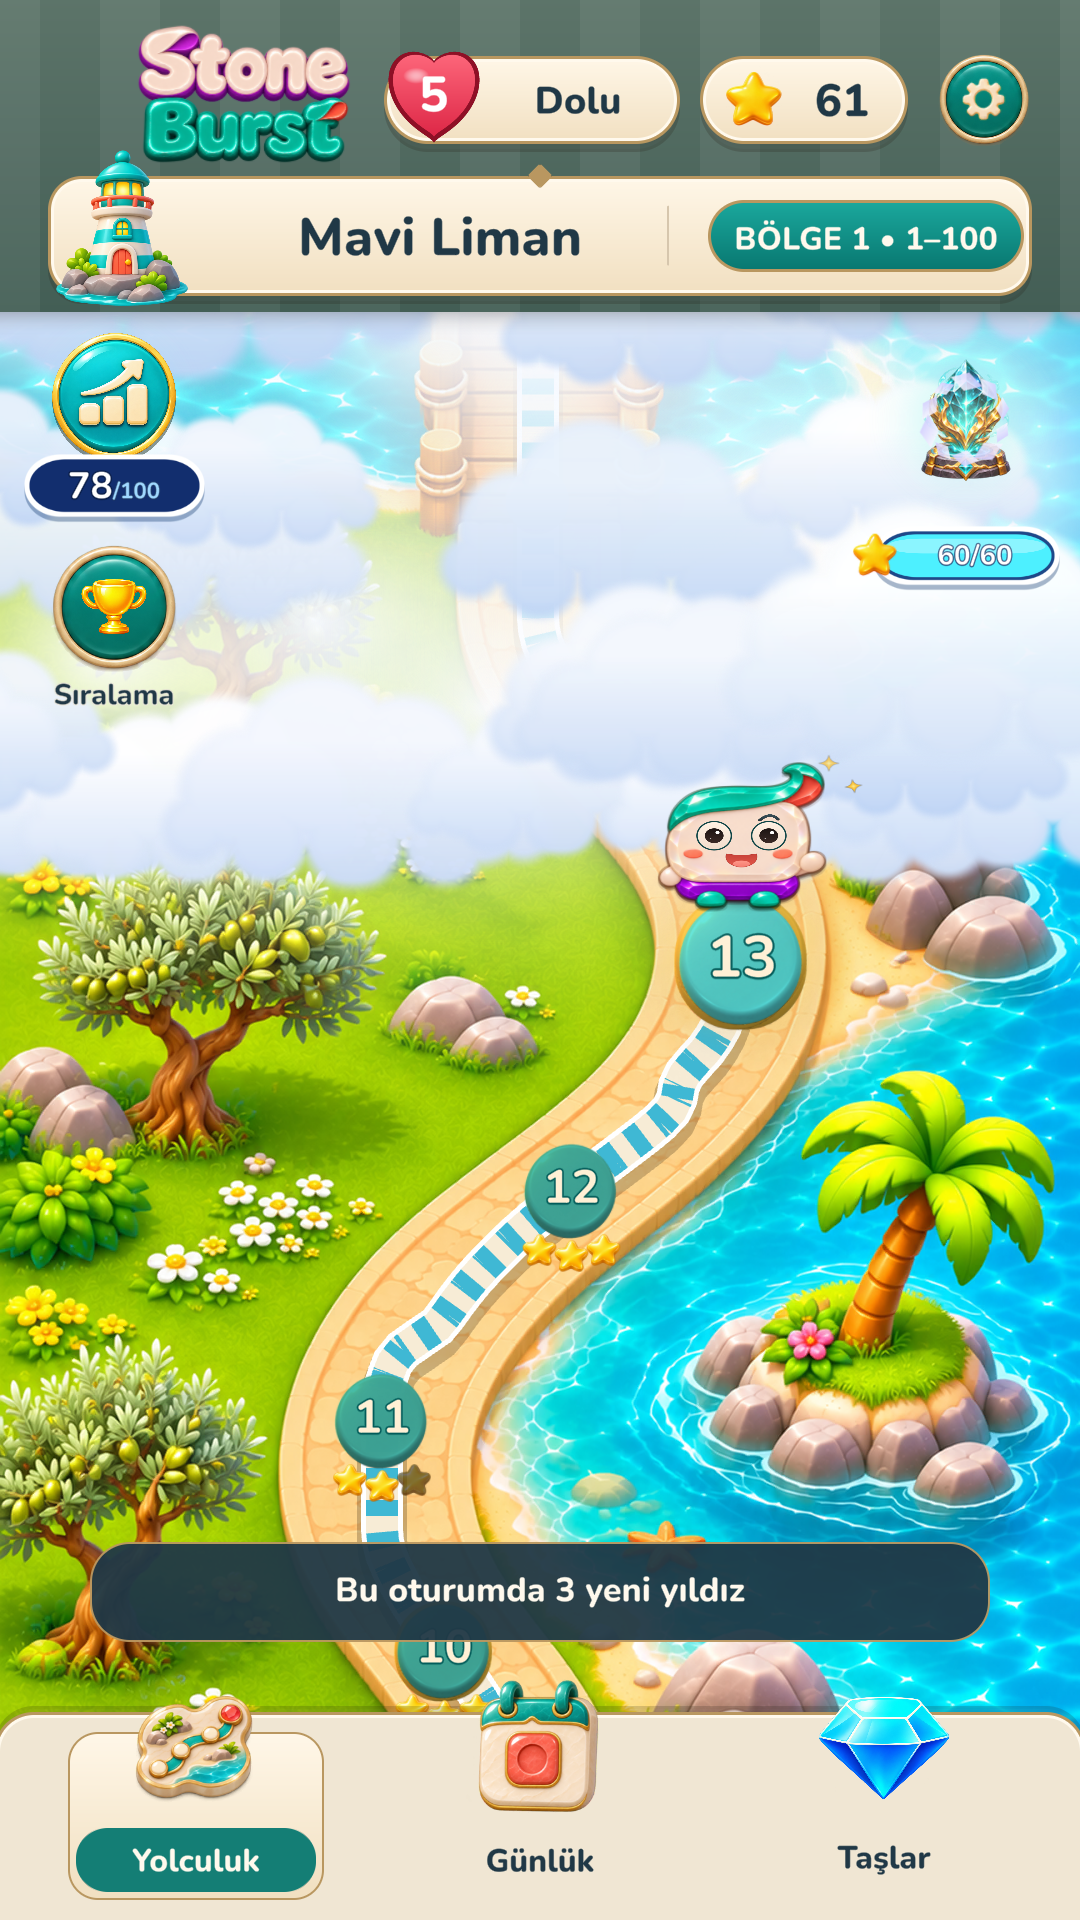
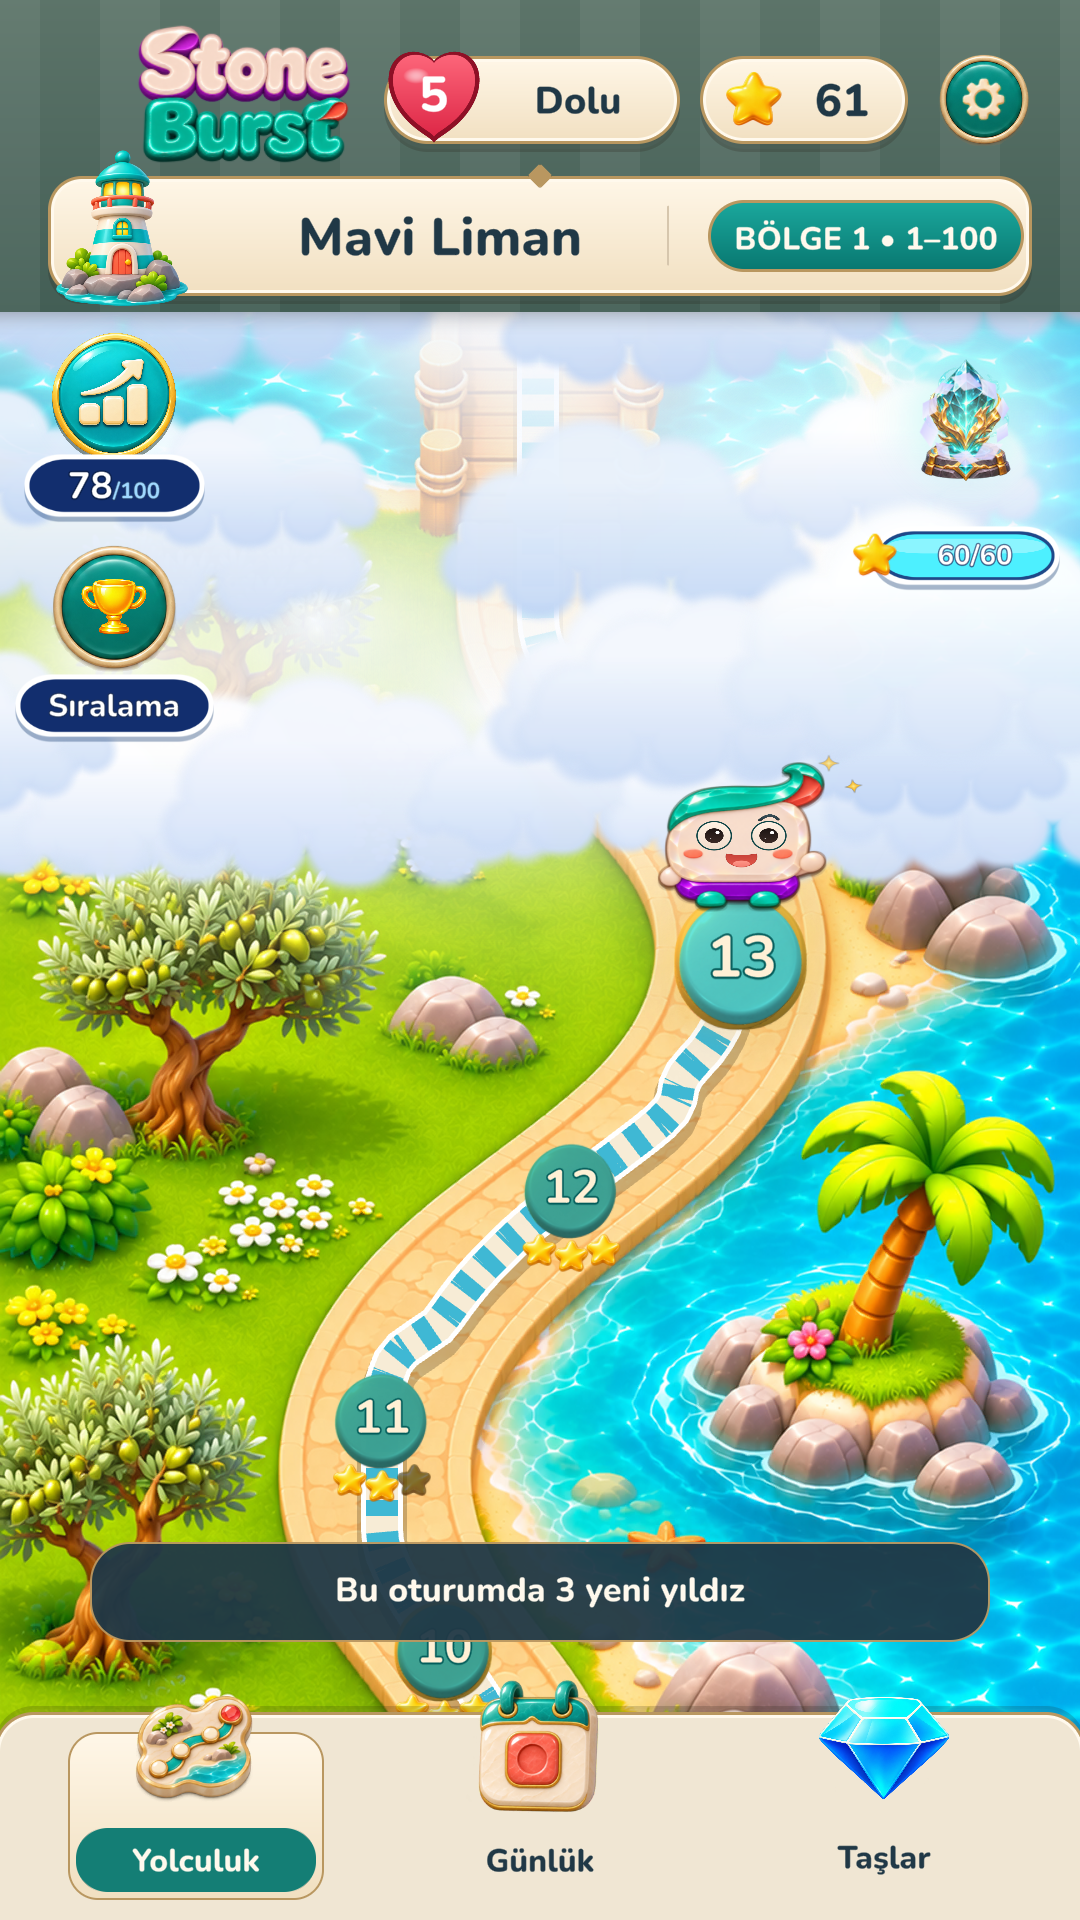
Sıralama: ana sayfa etiketi kapsülde, kayıt düğmesi Senin sıran kartında büyük

Changed region(s): [[0.0, 0.3438, 0.2139, 0.4062]]

diff --git a/Assets/KatKat/Scripts/UI/MenuView.Rank.cs b/Assets/KatKat/Scripts/UI/MenuView.Rank.cs
@@ -87,8 +87,7 @@ namespace KatKat.UI
             _rankFx.Content = middle.gameObject.AddComponent<CanvasGroup>();
             RankPodium(middle, m);
             RankListPanel(middle, m);
-            RankSelfCard(page, m);
-            RankSignInButton(page);
+            RankSelfCard(page, m); // giriş yoksa kayıt düğmesi kartın içinde (2026-11-11)
         }
 
         public void CloseRanking() { _rankFx = null; }
@@ -536,14 +535,25 @@ namespace KatKat.UI
                 if (sc != null) sc.GetComponent<Text>().text = "—";
             }
 
-            Pill(card, new Vector2(-290f, -38f), $"ZPE {Num(self.Zpe)}", false);
-            Pill(card, new Vector2(0f, -38f), Loc.F("rank.level", Num(self.Level)), false);
-            Pill(card, new Vector2(290f, -38f), Num(self.Stars), true);
+            // Kullanıcı (2026-11-11: "sıralama için kayıt ol yazısı hiç görünür bir yerde değil ve çok küçük, anlaşılır bir buton
+            // değil"): giriş yoksa ölçüt kapsülleri yerine kartın içinde büyük birincil düğme; altında dipnot (ilerleme) kalır.
+            bool signIn = NeedsSignIn != null && NeedsSignIn();
+            if (signIn)
+            {
+                var sb = Ui1.Button("SignIn", card, Loc.T("acct.signin.rank"), true, new Vector2(0.5f, 0.5f), new Vector2(0f, -52f), new Vector2(860f, 74f), () => RankSignInPressed?.Invoke(), null, 38);
+                sb.transform.SetAsLastSibling();
+            }
+            else
+            {
+                Pill(card, new Vector2(-290f, -38f), $"ZPE {Num(self.Zpe)}", false);
+                Pill(card, new Vector2(0f, -38f), Loc.F("rank.level", Num(self.Level)), false);
+                Pill(card, new Vector2(290f, -38f), Num(self.Stars), true);
+            }
             string foot = !eligible ? Loc.F("rank.need", m.Completed, m.MinLevels)
                 : rank <= 0 ? Loc.T("rank.notranked") : Loc.T("rank.formula");
             var ft = UiFactory.Text("Foot", card, foot, 26, RankInk2, TextAnchor.MiddleCenter, FontStyle.Normal); // ikincil: Nunito 600
             ft.raycastTarget = false;
-            UiFactory.Place(ft.rectTransform, new Vector2(0.5f, 0.5f), new Vector2(0f, -92f), new Vector2(820f, 34f));
+            UiFactory.Place(ft.rectTransform, new Vector2(0.5f, 0.5f), new Vector2(0f, signIn ? -106f : -92f), new Vector2(820f, signIn ? 28f : 34f));
             FitText(ft, 18);
         }
 
@@ -628,9 +638,13 @@ namespace KatKat.UI
             if (cup == null) return;
             var b = ShellRoundButton("RankButton", shell, cup, 132f, () => RankPressed?.Invoke());
             UiFactory.Place((RectTransform)b.transform, new Vector2(0.5f, 1f), new Vector2(-V11ColumnX, -V11ColumnZpeTop - V11LeftShift - 66f), new Vector2(132f, 132f));
-            var t = Ui3.Ready ? UiFactory.Title("RankLabel", shell, Loc.T("rank.title"), 30, Ui3.Ink, Ui3.IvoryTop) : UiFactory.Title("RankLabel", shell, Loc.T("rank.title"), 30, Color.white, V11Navy);
+            // Kullanıcı (2026-11-11: "anasayfadaki sıralama yazısı pek görünür değil, tasarımımıza uygun şekilde görünür yapalım"):
+            // ZPE puanının altındaki lacivert, beyaz kenarlı kapsülün aynısı; düğmenin parçası (kapsüle dokunmak da açar).
+            var cap = WhiteCapsule("RankLabel", b.transform, V11Navy, new Vector2(0.5f, 0f), new Vector2(0f, -32f), new Vector2(190f, 54f), 5f);
+            cap.raycastTarget = true;
+            var t = UiFactory.Title("Text", cap.transform, Loc.T("rank.title"), 32, Color.white, new Color32(0x06, 0x1A, 0x44, 0xFF));
             t.raycastTarget = false;
-            UiFactory.Place(t.rectTransform, new Vector2(0.5f, 1f), new Vector2(-V11ColumnX, -V11ColumnZpeTop - V11LeftShift - 152f), new Vector2(200f, 40f));
+            UiFactory.Stretch(t.rectTransform, 14f, 14f, 2f, 4f);
             FitText(t, 20);
         }
     }

diff --git a/Assets/KatKat/Scripts/UI/MenuView.Account.cs b/Assets/KatKat/Scripts/UI/MenuView.Account.cs
@@ -83,14 +83,5 @@ namespace KatKat.UI
             FitText(t, 26);
             Ui1.Button("Manage", row, Loc.T("ui.privacy.btn"), true, new Vector2(1f, 0.5f), new Vector2(-140f, 0f), new Vector2(280f, 88f), () => PrivacyOptionsPressed?.Invoke(), null, 38);
         }
-
-        /// <summary>Sıralama: kendi kartının üstünde "Sıralama için kayıt ol" (giriş yoksa).</summary>
-        private void RankSignInButton(RectTransform page)
-        {
-            if (NeedsSignIn == null || !NeedsSignIn()) return;
-            var b = Ui1.Button("SignIn", page, Loc.T("acct.signin.rank"), true, new Vector2(0.5f, 0f),
-                new Vector2(0f, RankCardBottom + RankCardH + 61f), new Vector2(600f, 60f), () => RankSignInPressed?.Invoke(), null, 30); // liste ile "SENİN SIRAN" başlığı arasındaki boşluk (üstüne binmesin, 2026-11-09)
-            b.transform.SetAsLastSibling();
-        }
     }
 }

diff --git a/Assets/KatKat/Editor/CaptureV13Pages.cs b/Assets/KatKat/Editor/CaptureV13Pages.cs
@@ -98,6 +98,11 @@ namespace KatKat.EditorTools
                 Shot("p1_08_gunluk_sekme_secili", gc => { Progress(gc, 12); Own(gc); gc.ShowLevels(); gc.ShowDaily(); });
                 Shot("p1_09_tahta_ortasi_buz", gc => { Progress(gc, 122); gc.StartLevel(122); });
                 Shot("p1_10_tahta_ortasi_buz_b", gc => { Progress(gc, 300); gc.StartLevel(302); });
+                Vr1Proto.Override = false;
+                Shot("p1_11_harita_siralama_etiketi", gc => { Progress(gc, 12); gc.ShowLevels(); });
+                GameController.DevLeaderboardSample = true;
+                Shot("p1_12_siralama_kayit_dugmesi", gc => { Progress(gc, 25); gc.ShowRanking(); });
+                GameController.DevLeaderboardSample = false;
             }
             finally
             {

diff --git a/docs/KARARLAR.md b/docs/KARARLAR.md
@@ -102,3 +102,4 @@ Eski ayrıntılı karar günlüğü arşivde (`KatKat_Arsiv_2026-11-06/docs/KARA
 - 2026-11-11 (kullanıcı: "yolculuk yapalım"): **"Harita" sekmesinin adı Yolculuk** (`ui.map`: Yolculuk, Journey, Viaje, الرحلة, Reise, Viaggio, Voyage, たび, 여정). Bölge plakası ve haritanın kendisi değişmedi.
 - 2026-11-11 (kullanıcı: "kaldığımız yerden devam edelim"): **vr1 P1: tahta ortasında buzlu taş** (prototip anahtarı). Yalnız kenara değmeyen, geçit olmayan en az 2×2 boşluklu tahtalarda (1000 bölümün 305'i); boş karenin %78'i, hücre örtmez, "Koleksiyon" etiketi; boşluktaki mevcut süs bu sırada gizlenir, hedef taş yoksa süs kalır; yeni delik açılmaz.
 - 2026-11-11 (kullanıcı: "Evet, animasyonlar"): **vr1 P1: animasyon süre tablosu** (prototip anahtarı, taslak). Soyma çarpanı 1,4 → 0,6 (soyma 574 → 246 ms, okunur an 420 → 180 ms), dokunuş sıkışması 0,94 → 0,96, zincir dalga arası okunur an + 100 ms, özel taş tepsiye 420 ms, roket öncü 120 ms + 60 ms/hücre, Altın Rulo öncü 120 ms + 45 ms/hücre. Hedef tamamlanma ve yıldız kutlaması zaten tabloya yakındı, değişmedi. Anahtar kapalıyken süreler eskisi gibi. Ölçüm: ilk hamle 1418 → 715 ms (editör).
+- 2026-11-11 (kullanıcı: "anasayfadaki sıralama yazısı pek görünür değil … sıralama için kayıt ol yazısı hiç görünür bir yerde değil ve çok küçük, anlaşılır bir buton değil"): **Sıralama görünürlüğü** (canlı görünüm, prototip anahtarına bağlı değil). Ana sayfada kupa düğmesinin altındaki "Sıralama" yazısı ZPE puanının altındakiyle aynı lacivert, beyaz kenarlı kapsülde; kapsüle dokunmak da Sıralama'yı açar. Sıralama ekranında giriş yoksa "Sıralama için kayıt ol" artık "Senin sıran" kartının içinde tam genişlikte birincil düğme (860×74, 38 punto); eski küçük düğme (600×60, liste ile kart arasındaki boşlukta) kaldırıldı. Ölçüt kapsülleri bu durumda gizlenir, dipnot (ilerleme) kalır.
